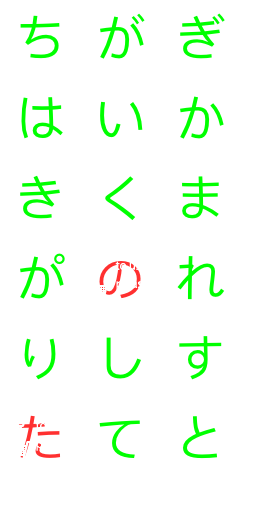
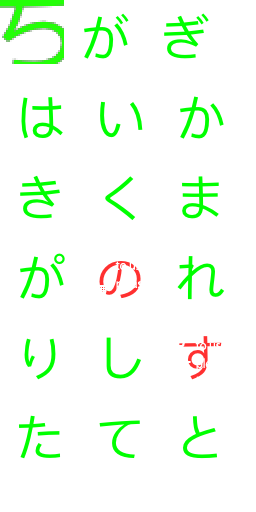
reduced particle count. fps is ok.

diff --git a/src/js/effects/SpriteParticleFactory.js b/src/js/effects/SpriteParticleFactory.js
@@ -9,34 +9,35 @@ export default class SpriteParticleFactory {
   static getPositionsAndColors(img, sz, maskFn) {
     img.loadPixels();
 
-    let imgW = img.width;
-    let imgH = img.height;
     let positions = [];
     let colors = [];
     let col, r, g, b, a;
     let x = 0,
       y = 0;
+    let pxScale = 2;
 
-    for (let i = 0; i < img.pixels.length; i += 4) {
+    for (let i = 0; i < img.pixels.length; i += 4 * pxScale) {
 
-      r = img.pixels[i + 0];
-      g = img.pixels[i + 1];
-      b = img.pixels[i + 2];
-      a = img.pixels[i + 3];
+      r = img.pixels[(i + 0)];
+      g = img.pixels[(i + 1)];
+      b = img.pixels[(i + 2)];
+      a = img.pixels[(i + 3)];
 
       ////////////////////////////////////////////////////////////////
       if (!maskFn) {
-        positions.push(x * sz, y * sz);
+        positions.push(x / 2, y  /2 );
         colors.push(r, g, b, 255);
       } else if (maskFn(r, g, b, a)) {
-        positions.push(x * sz, y * sz);
+        positions.push(x * sz / 2, y * sz / 2);
         colors.push(r, g, b, 255);
       }
 
-      x++;
-      if (i > 0 && x % img.width === 0) {
+      x+=pxScale;
+      // if (i > 0 && x % img.width === 0) {
+      if (i > 0 && i % (img.width*4*1) === 0) {
         x = 0;
-        y++;
+        y += 2;
+        i += img.width * 4 * pxScale;
       }
     }
 
@@ -69,21 +70,21 @@ export default class SpriteParticleFactory {
   	particle for each one
   */
   static initWithAtlas(atlas){
-  	let maskFn = (r,g,b,a) => g > 250;
+  	let maskFn = (r,g,b,a) => g === 255;
 
   	let allChars = Object.entries(atlas.frames);
 
-  	allChars.forEach( (f) => {
+  	allChars.forEach( f => {
   		let name = f[0];
   		let img = f[1];
   		let size = 1;
 
-	  	SpriteParticleFactory.allocateParticlesWithImage({
-	  		'name': name,
-	  		'img': img,
-	  		'size': size,
-	  		'maskFn': maskFn
-	  	});
+	  	SpriteParticleFactory.allocateParticlesWithImage({name,img,size, maskFn});
+	  	// 	'name': name,
+	  	// 	'img': img,
+	  	// 	'size': size,
+	  	// 	'maskFn': maskFn
+	  	// });
   	});
   }
 

diff --git a/src/js/effects/ExplodeBehaviour.js b/src/js/effects/ExplodeBehaviour.js
@@ -43,10 +43,13 @@ export default class Explode extends Behaviour {
 
       v.set(this.sprite.pos[i * 2 + 0], this.sprite.pos[i * 2 + 1]);
       v.sub(p);
-      m = v.mag() * 0.6;
+      m = v.mag() * 1;
 
-      this.sprite.acc[i * 2 + 0] +=      (50 / m) * v.x + sign(v.x) + (noise((i + this.noiseOffset) * 3) * 2 - 1) * 150;
-      this.sprite.acc[i * 2 + 1] += up + (50 / m) * v.y + sign(v.y) + (noise((i + this.noiseOffset) * 13) * 2 - 1) * 50;
+      // this.sprite.acc[i * 2 + 0] +=      (50 / m) * v.x + sign(v.x) + (noise((i + this.noiseOffset) * 13) * 2 - 1) * 15;
+      // this.sprite.acc[i * 2 + 1] += up + (50 / m) * v.y + sign(v.y) + (noise((i + this.noiseOffset) * 13) * 2 - 1) * 15;
+
+      this.sprite.acc[i * 2 + 0] +=      (50 / m) * v.x + sign(v.x) + (noise((i + this.noiseOffset) * 13) * 2 - 1) * 150;
+      this.sprite.acc[i * 2 + 1] += up + (50 / m) * v.y + sign(v.y) + (noise((i + this.noiseOffset) * 3) * 2 - 1) * 50;
       // this.sprite.acc[i * 2 + 0] +=      (50 / m) * v.x;
       // this.sprite.acc[i * 2 + 1] += up + (50 / m) * v.y;
     }

diff --git a/src/js/effects/SpriteParticle.js b/src/js/effects/SpriteParticle.js
@@ -46,9 +46,11 @@ export default class SpriteParticle{
 		// gfx.beginShape(POINTS);
 		// gfx.strokeWeight(1);
 		// gfx.stroke(233);
+		// gfx.strokeWeight(2);
+		debugger;
 		for (let i = 0; i < this.pxCount; i++) {
-			x = this.pos[i * 2 + 0] * this.size;
-			y = this.pos[i * 2 + 1] * this.size;
+			x = this.pos[i * 2 + 0] * this.size *2;
+			y = this.pos[i * 2 + 1] * this.size *3;
 
 			r = this.col[i * 4 + 0];
 			g = this.col[i * 4 + 1];
@@ -56,8 +58,11 @@ export default class SpriteParticle{
 			a = this.col[i * 4 + 3];
 
 			// gfx.vertex(x,y);
+			// gfx.stroke(r,g,b,a);
+			// gfx.point(x,y);
+
 			gfx.fill(r, g, b, a);
-			gfx.rect(x, y, this.size * this.size  , this.size * this.size);
+			gfx.rect(x, y, this.size * this.size * 3 , this.size * this.size * 3);
 		}
 		gfx.endShape();
 

diff --git a/tools/font_to_img.js b/tools/font_to_img.js
@@ -5,7 +5,7 @@ import data from './data.js';
 let isDone = false;
 let timer = 0;
 let currChar = 0;
-let sz = 40;
+let sz = 32;
 let font;
 
 window.preload = function() {
@@ -37,7 +37,7 @@ window.draw = function (){
 
 	noStroke();
 	fill(0, 255, 0)
-	text( jpChar, sz, sz);
+	text(jpChar, sz, sz);
 	
 	if(timer > 10){
 		save(`${romanji}.png`);
